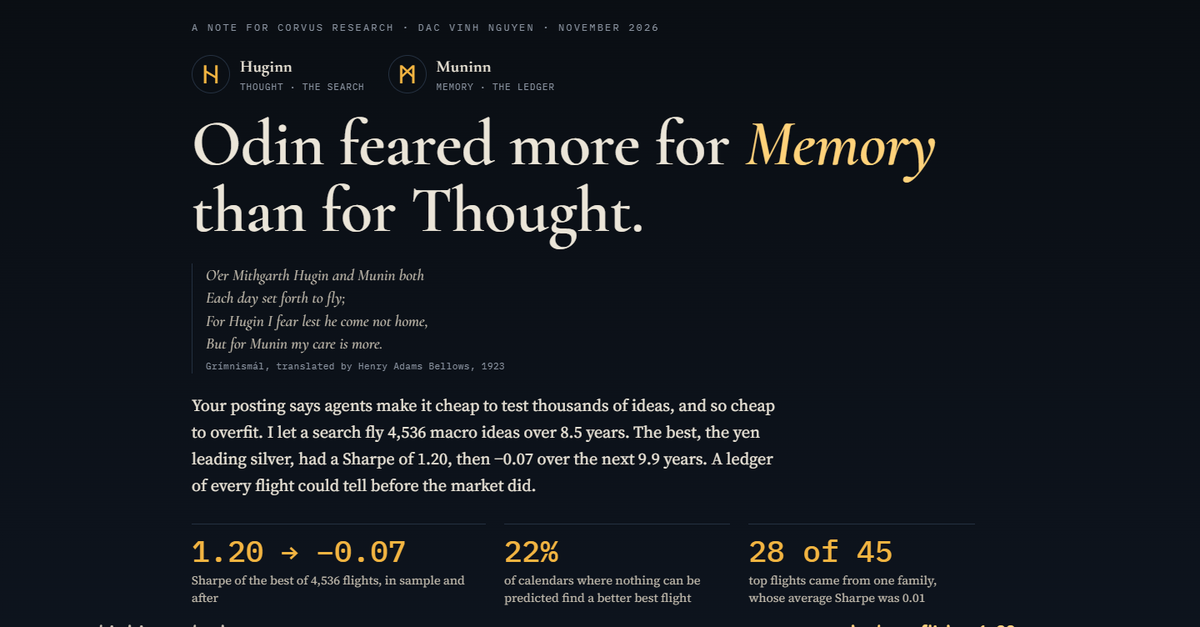
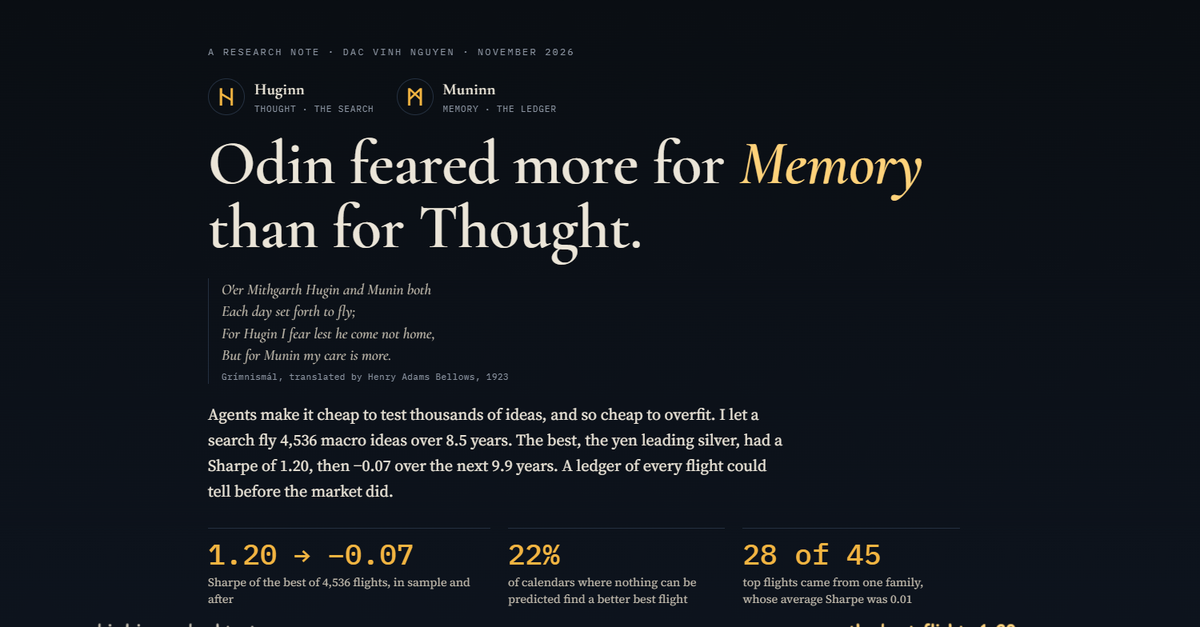
The page: a research note for any reader, no longer addressed to one firm

diff --git a/page/note.tpl.html b/page/note.tpl.html
@@ -5,10 +5,10 @@
 <meta name="viewport" content="width=device-width, initial-scale=1">
 <meta name="robots" content="noindex, nofollow">
 <title>Muninn: what an agent's search remembers</title>
-<meta name="description" content="{{FLIGHTS}} macro backtests, the bar they had to clear, and what survived. A note for Corvus Research by Dac Vinh Nguyen.">
+<meta name="description" content="{{FLIGHTS}} macro backtests, the bar they had to clear, and what survived. A research note by Dac Vinh Nguyen.">
 <meta property="og:type" content="article">
 <meta property="og:title" content="Muninn: what an agent's search remembers">
-<meta property="og:description" content="{{FLIGHTS}} macro backtests, the bar they had to clear, and what survived. A note for Corvus Research by Dac Vinh Nguyen.">
+<meta property="og:description" content="{{FLIGHTS}} macro backtests, the bar they had to clear, and what survived. A research note by Dac Vinh Nguyen.">
 <meta property="og:url" content="https://vinhdac.github.io/notes/muninn/">
 <meta property="og:image" content="https://vinhdac.github.io/notes/muninn/og.png">
 <meta property="og:image:width" content="1200">
@@ -165,14 +165,14 @@ footer{max-width:980px;margin:0 auto;padding:30px 24px 70px;font-family:var(--mo
 <header class="hero" id="top">
   <canvas id="sky" aria-hidden="true"></canvas>
   <div class="hero-inner">
-    <div class="eyebrow">A note for Corvus Research · Dac Vinh Nguyen · {{MONTH}}</div>
+    <div class="eyebrow">A research note · Dac Vinh Nguyen · {{MONTH}}</div>
     <div class="ravens">
       <div class="raven"><div class="rune">ᚺ</div><div><b>Huginn</b><span>thought · the search</span></div></div>
       <div class="raven"><div class="rune">ᛗ</div><div><b>Muninn</b><span>memory · the ledger</span></div></div>
     </div>
     <h1>Odin feared more for <em>Memory</em> than for Thought.</h1>
     <p class="stanza">O'er Mithgarth Hugin and Munin both<br>Each day set forth to fly;<br>For Hugin I fear lest he come not home,<br>But for Munin my care is more.<small>Grímnismál, translated by Henry Adams Bellows, 1923</small></p>
-    <p class="lede">Your posting says agents make it cheap to test thousands of ideas, and so cheap to overfit. I let a search fly {{FLIGHTS}} macro ideas over {{YEARS_IN}} years. The best, {{WINNER_PRETTY}}, had a Sharpe of {{WIN_IN}}, then {{WIN_OUT}} over the next {{YEARS_OUT}} years. A ledger of every flight could tell before the market did.</p>
+    <p class="lede">Agents make it cheap to test thousands of ideas, and so cheap to overfit. I let a search fly {{FLIGHTS}} macro ideas over {{YEARS_IN}} years. The best, {{WINNER_PRETTY}}, had a Sharpe of {{WIN_IN}}, then {{WIN_OUT}} over the next {{YEARS_OUT}} years. A ledger of every flight could tell before the market did.</p>
     <div class="numbers">
       <div><b>{{WIN_IN}} → {{WIN_OUT}}</b><span>Sharpe of the best of {{FLIGHTS}} flights, in sample and after</span></div>
       <div><b>{{P_PCT}}</b><span>of calendars where nothing can be predicted find a better best flight</span></div>
@@ -248,7 +248,7 @@ book.families()       <span class="c"># each family's Sharpe minus its own rotat
     <thead><tr><th>Counting the tries</th><th>Independent tries</th><th>Expected best by luck</th></tr></thead>
     <tbody>{{TRY_ROWS}}</tbody>
   </table></div>
-  <p class="closing">Your agents already plan around their compute. Muninn gives them a second budget: how much luck the search has already spent.</p>
+  <p class="closing">Agents already plan around their compute. Muninn gives them a second budget: how much luck the search has already spent.</p>
 </section>
 
 <section id="receipts" class="receipts">
@@ -257,7 +257,7 @@ book.families()       <span class="c"># each family's Sharpe minus its own rotat
   <p><b>Data.</b> Fifteen ETFs ({{ASSETS}}) and three indicators (the VIX, the 10-year yield and the 3-month bill), daily adjusted closes from Yahoo, {{PANEL_START}} to {{PANEL_END}}. In sample {{IN_START}} to {{IN_END}} ({{YEARS_IN}} years); after, {{OUT_START}} to {{PANEL_END}} ({{YEARS_OUT}} years). Positions are set at a close and held the next day, at {{COST}} basis points per unit of turnover.</p>
   <p><b>What it is not.</b> A grid of {{FLIGHTS_SEEN}} flights stands in for an agent. A real agent adapts to what it has seen, which hides its flights and makes the ledger matter more. There is no carry or value, which need futures curves, and ETFs stand in for futures. The probability of backtest overfitting for the whole search, by combinatorially symmetric cross-validation over 16 blocks, is {{PBO}}.</p>
   <p><b>Checks.</b> {{CHECKS}} rules the study depends on, each seen to fail: {{FAULTS}} planted faults, from a signal that reads tomorrow's price to calendars that are never rotated, were all caught. Every number on this page is read from <span class="mono">results.json</span>, which <span class="mono">study.py</span> writes.</p>
-  <p><b>How it was made.</b> With Claude Code as my coding agent, which is how the role describes the work. Code and checks: <a href="{{REPO}}">{{REPO_SHORT}}</a>.</p>
+  <p><b>How it was made.</b> With Claude Code as my coding agent. Code and checks: <a href="{{REPO}}">{{REPO_SHORT}}</a>.</p>
   </div>
   <div class="sign"><b>Dac Vinh Nguyen</b>MSc Computational Finance, Royal Holloway, University of London · Research Consultant on WorldQuant's BRAIN platform · <a href="https://vinhdac.github.io/">vinhdac.github.io</a></div>
 </section>
